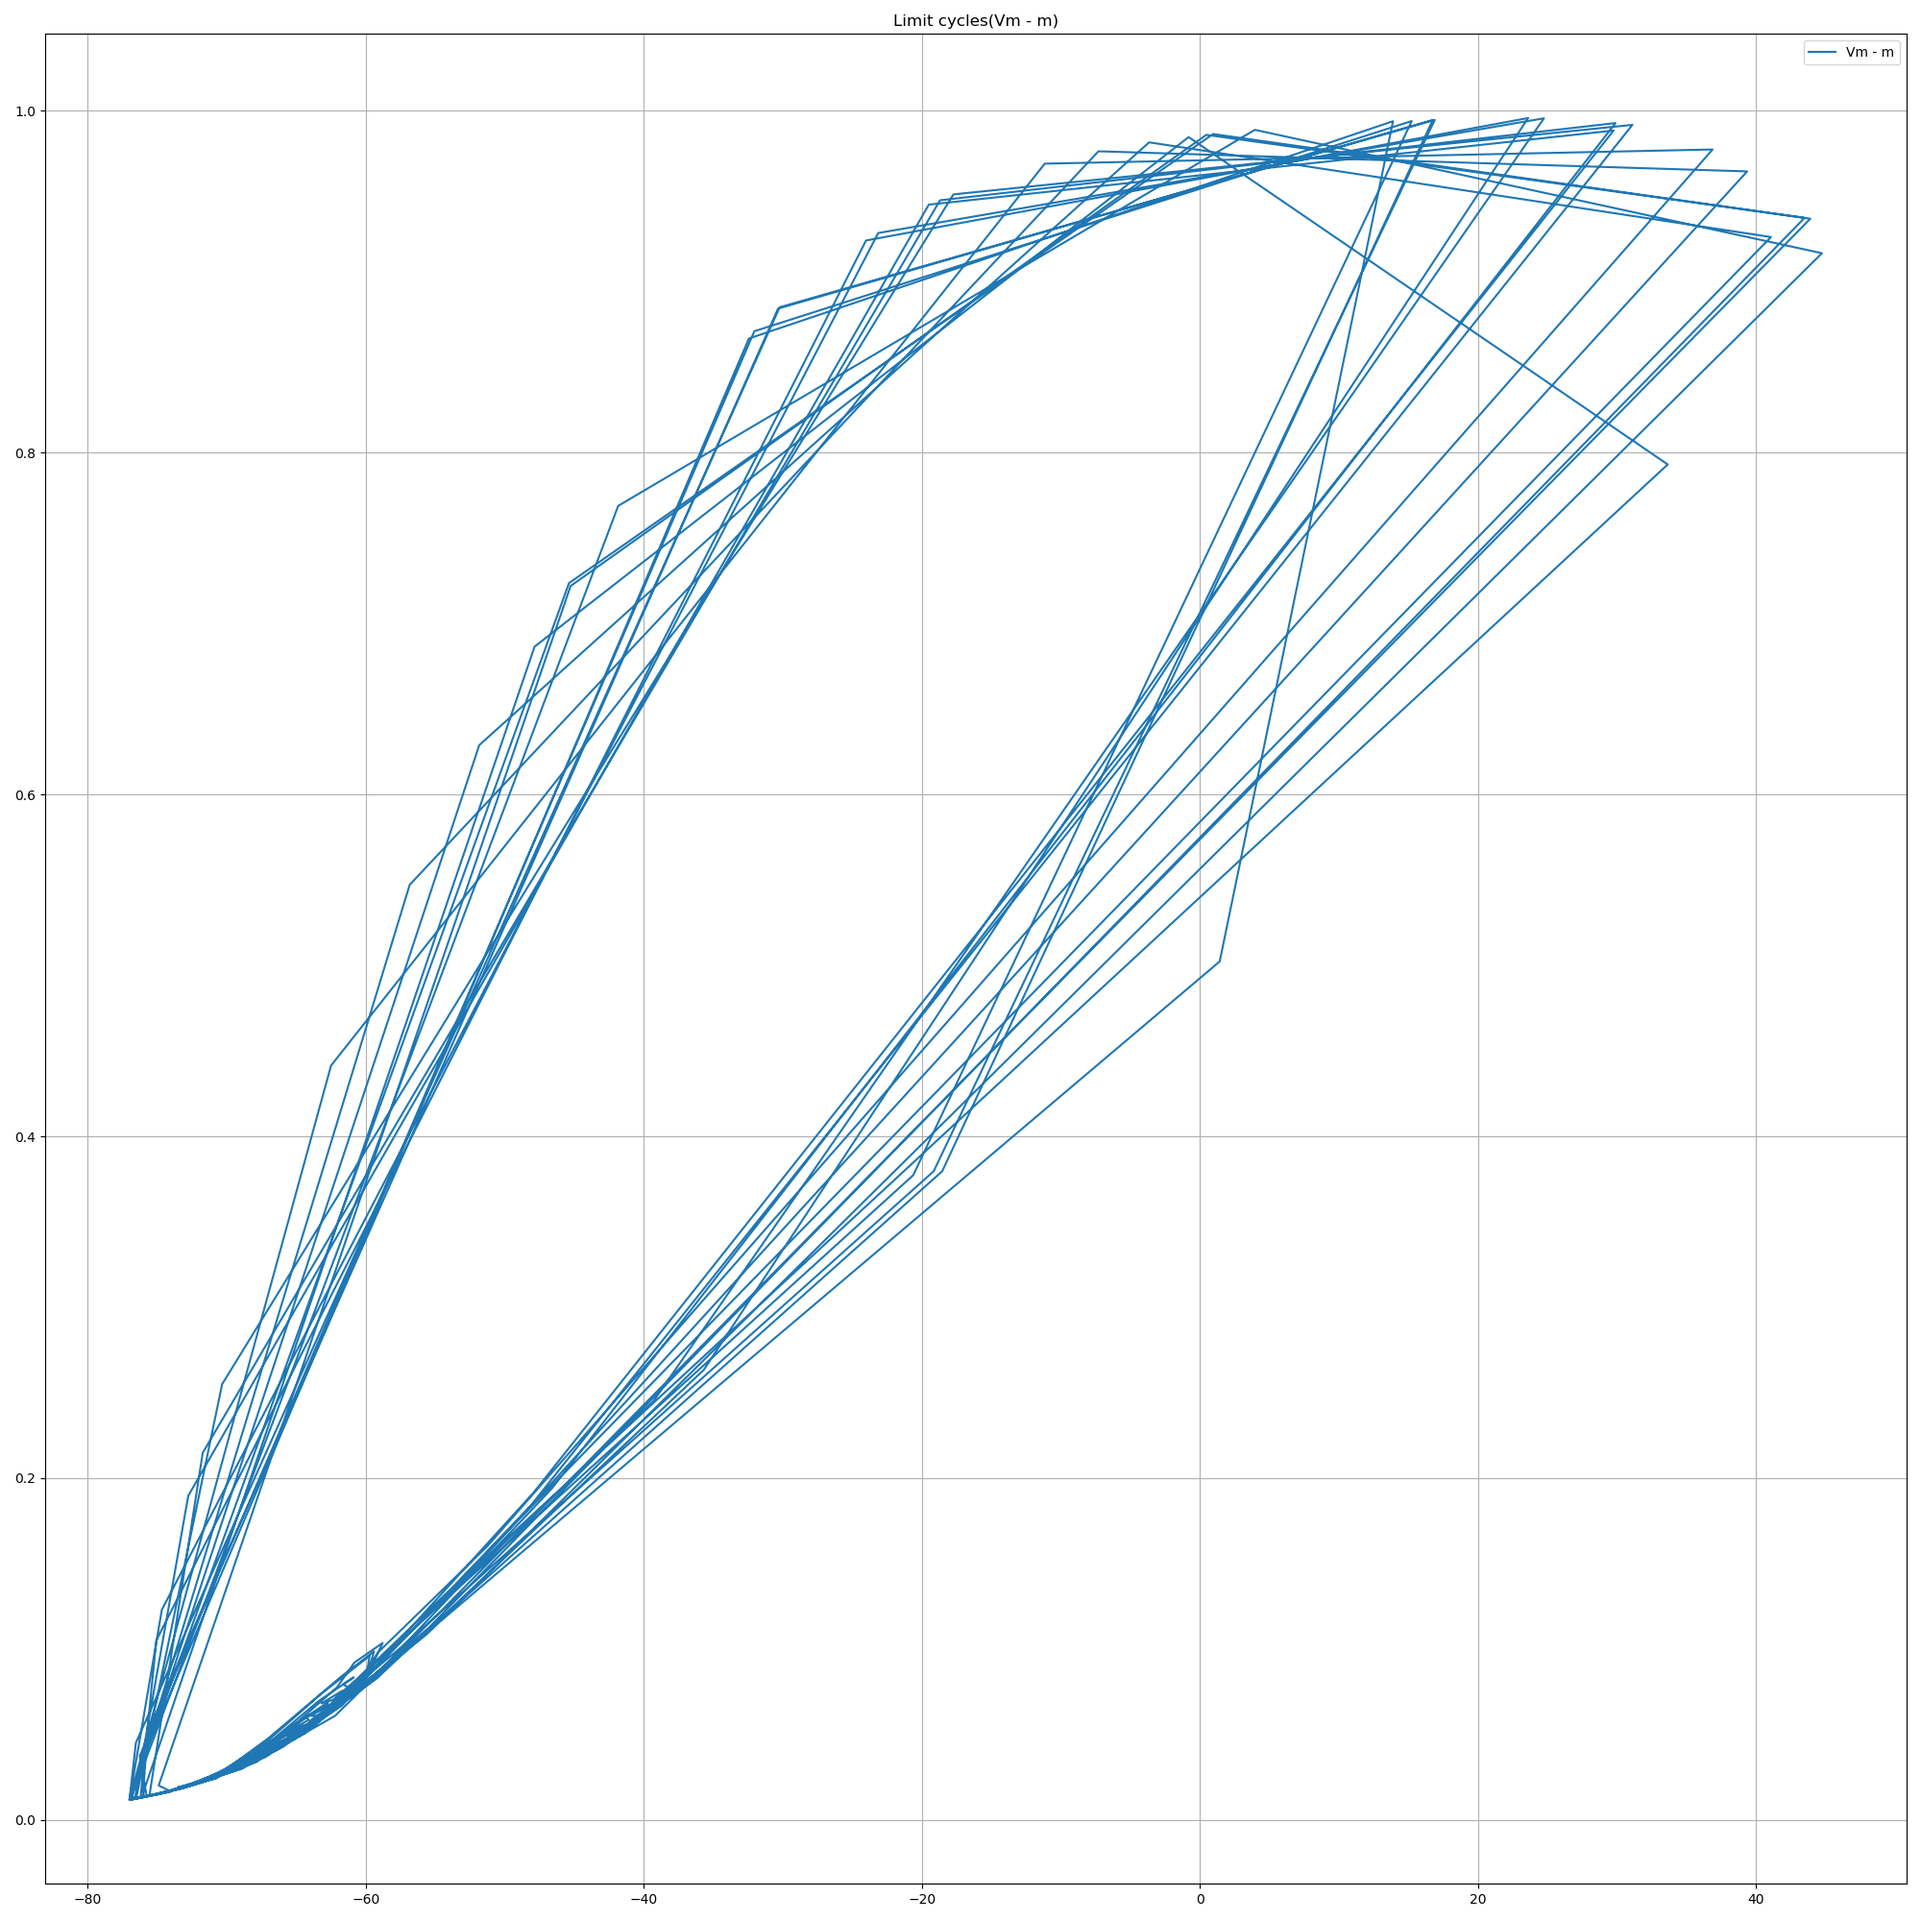
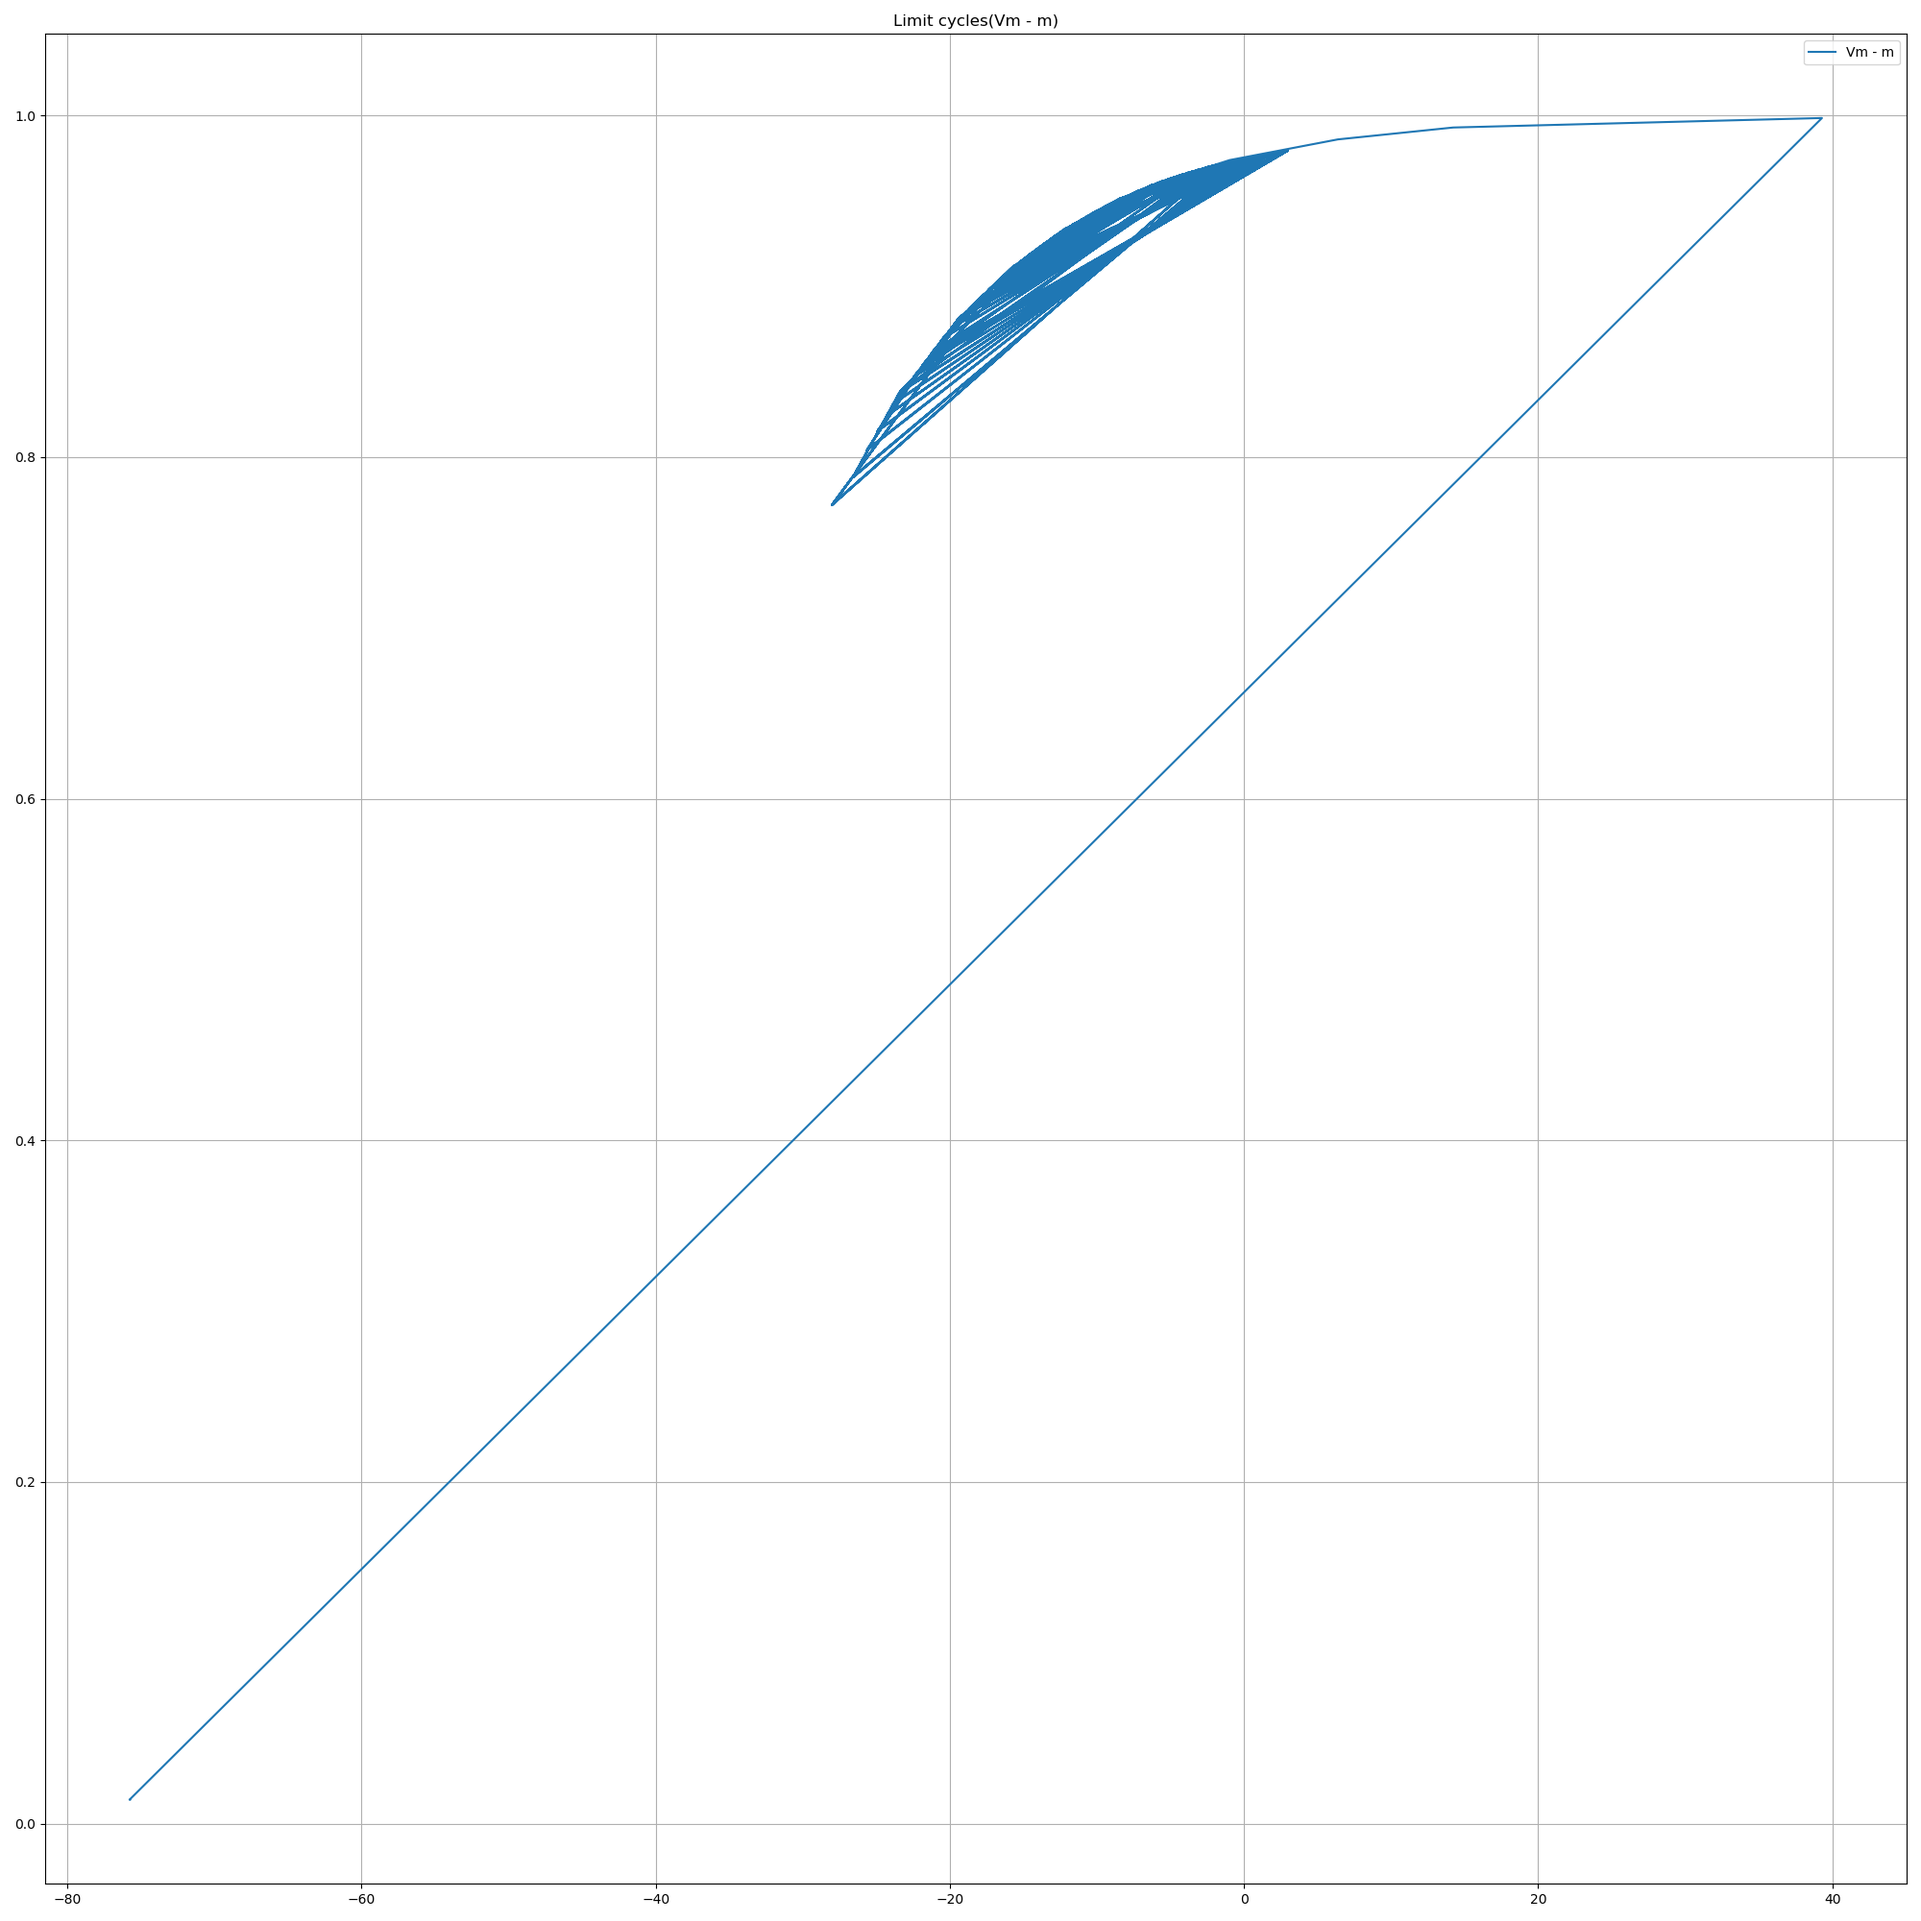
*fixed model
*added spike ratio

Changed region(s): [[0.062, 0.062, 0.93, 0.961], [0.868, 0.155, 0.899, 0.186]]

diff --git a/lab3.py b/lab3.py
@@ -3,41 +3,55 @@ import numpy as np
 
 from scipy.integrate import odeint
 
-from model import n_0, m_0, h_0, generate_computing_derivatives_function, I_A_func, I_B_func
+from model import n_0, m_0, h_0, generate_computing_derivatives_function
 from lab3_utils import calculate_L, Id
 
 # Set random seed (for reproducibility)
 np.random.seed(30)
 
 
-def plot_results(L_A_func, L_B_func, Vy, T, syn_params, plot_phase_space=False):
-    fig, ax = plt.subplots(figsize=(24, 14))
-    ax.plot(np.array(T)*100, [I_A_func(T[i], Vy[i, 0], L_A_func, syn_params['V_A'], syn_params['N_A']) for i in range(len(T))])
-    ax.set_xlabel('Time (ms)')
-    ax.set_ylabel('I synapse A')
-    plt.grid()
-    fig.show()
-
-    fig, ax = plt.subplots(figsize=(24, 14))
-    ax.plot(np.array(T)*100, [I_B_func(T[i], Vy[i, 0], L_B_func, syn_params['V_B'], syn_params['N_B']) for i in range(len(T))])
-    ax.set_xlabel('Time (ms)')
-    ax.set_ylabel('I synapse B')
-    plt.grid()
-    fig.show()
+def plot_results(Vy, T, plot_phase_space=False):
+    #fig, ax = plt.subplots(figsize=(24, 14))
+    #ax.plot(np.array(T), Vy[:, 4])
+    #ax.set_xlabel('Time (s)')
+    #ax.set_ylabel('I synapse A (A)')
+    #plt.grid()
+    #fig.show()
+    #
+    #fig, ax = plt.subplots(figsize=(24, 14))
+    #ax.plot(np.array(T), Vy[:, 5])
+    #ax.set_xlabel('Time (s)')
+    #ax.set_ylabel('I synapse B (A)')
+    #plt.grid()
+    #fig.show()
+    #
+    #fig, ax = plt.subplots(figsize=(24, 14))
+    #ax.plot(np.array(T), Vy[:, 6])
+    #ax.set_xlabel('Time (s)')
+    #ax.set_ylabel('I Na (A)')
+    #plt.grid()
+    #fig.show()
+    #
+    #fig, ax = plt.subplots(figsize=(24, 14))
+    #ax.plot(np.array(T), Vy[:, 7])
+    #ax.set_xlabel('Time (s)')
+    #ax.set_ylabel('I K (A)')
+    #plt.grid()
+    #fig.show()
 
     # Neuron potential
     fig, ax = plt.subplots(figsize=(24, 14))
-    ax.plot(np.array(T)*100, Vy[:, 0])
+    ax.plot(np.array(T) * 10, Vy[:, 0])
     ax.set_xlabel('Time (ms)')
-    ax.set_ylabel('Vm (mV)')
+    ax.set_ylabel('Vm (V)')
     ax.set_title('Neuron potential')
     plt.grid()
     fig.show()
-
+    #
     # n, m, h
     fig, ax = plt.subplots(figsize=(24, 14))
     for i, label in enumerate(['n', 'm', 'h']):
-        ax.plot(np.array(T)*100, Vy[:, i + 1], label=label)
+        ax.plot(np.array(T) * 10, Vy[:, i + 1], label=label)
     ax.set_xlabel('Time (ms)')
     ax.set_ylabel('Potassium & Sodium ion-channel rates')
     ax.set_title('Potassium & Sodium ion-channel rates in time')
@@ -56,41 +70,81 @@ def plot_results(L_A_func, L_B_func, Vy, T, syn_params, plot_phase_space=False):
             fig.show()
 
 
+def check_spikes_ratio(Vy, T):
+    def calc_spikes_ratio_by_window(Window_size):
+        spikes_ratio = []
+        for i in range(len(Vy) - Window_size - 1):
+            spikes = 0
+            for j in range(i, i + Window_size):
+                if Vy[j][0] < 0.0 and Vy[j + 1][0] > 0.0:
+                    spikes += 1
+            spikes_ratio.append(spikes)
+        return np.array(spikes_ratio)
+
+    spikes_in_500ms = calc_spikes_ratio_by_window(50)
+
+    # 1
+    print("No zero spikes for 500ms: {}".format(np.all(spikes_in_500ms > 0)))
+
+    # plot spikes ratio
+    pos_ = Vy[:, 0] > 0
+    HZ = np.array(np.split(np.array([False] + list((pos_[1:] == True) & (pos_[:-1] == False))), 60)).sum(axis=1)
+    dots = np.where(HZ < 10)[0]
+    dots10 = np.where(HZ >= 10)[0]
+    dots15 = np.where(HZ >= 15)[0]
+
+    plt.figure(constrained_layout=True, figsize=(24, 14))
+    plt.plot(range(1, 61), HZ, label='Spike ratio')
+    plt.axhline(y=10, color='y', linestyle='--', label='10Hz')
+    plt.axhline(y=15, color='r', linestyle='--', label='15Hz')
+    plt.scatter(dots + 1, HZ[dots], s=100, marker='o', c='g')
+    plt.scatter(dots10 + 1, HZ[dots10], s=100, marker='o', c='y')
+    plt.scatter(dots15 + 1, HZ[dots15], s=100, marker='o', c='r')
+    plt.xlabel('Time (s)')
+    plt.ylabel('Frequency (Hz)')
+    plt.title('Spike ratio')
+    plt.legend()
+    plt.show()
+
+
+
+    
+
 def run_simulation(Id, plot_phase_space=False):
-    T = [int(t) for t in np.arange(0, 600, 1)]
+    T = [int(t) for t in np.arange(0, 6000, 1)]
     print(T)
-    # A
+
+
     L_A_params = {
         'L0': 0.0,
         'distr_func': np.random.poisson,
-        'distr_params': {'lam': 10},
-        'distr_threshold': 10,
-        'L_in': 0.01,
-        'L_out': 0.005
+        'distr_params': {'lam': 23},
+        'L_in': 1000,
+        'L_out': 100,
+        'V_max': 1000
     }
-    L_A_func = calculate_L(T, L_A_params)
 
-
-    # B
     L_B_params = {
         'L0': 0.0,
         'distr_func': np.random.uniform,
-        'distr_params': {'low': 0, 'high': 10},
-        'distr_threshold': 7,
-        'L_in': 0.01,
-        'L_out': 0.005
+        'distr_params': {'low': 1, 'high': 7},
+        'L_in': 1000,
+        'L_out': 100,
+        'V_max': 1000
     }
+
+    L_A_func = calculate_L(T, L_A_params)
     L_B_func = calculate_L(T, L_B_params)
 
     syn_params = {
-        'V_A': 500,
-        'N_A': 100000,
-        'V_B': 500,
-        'N_B': 100000,
+        'V_A': 900,
+        'N_A': 6.877 * 1e9,
+        'V_B': 1000,
+        'N_B': 6.58 * 1e9,
     }
 
     Vm0 = -75.74
-    Y = np.array([Vm0, n_0(Vm0), m_0(Vm0), h_0(Vm0)])
+    Y = np.array([Vm0, n_0(Vm0), m_0(Vm0), h_0(Vm0), 0.0, 0.0, 0.0, 0.0])
 
     compute_derivatives = generate_computing_derivatives_function(Id, L_A_func, L_B_func, syn_params)
 
@@ -98,7 +152,8 @@ def run_simulation(Id, plot_phase_space=False):
     # Vy = (Vm[t0:tmax], n[t0:tmax], m[t0:tmax], h[t0:tmax])
     Vy = odeint(compute_derivatives, Y, T)
 
-    plot_results(L_A_func, L_B_func, Vy, T, syn_params, plot_phase_space)
+    plot_results(Vy, T, plot_phase_space)
+    check_spikes_ratio(Vy, T)
 
 
 if __name__ == '__main__':

diff --git a/model.py b/model.py
@@ -1,24 +1,23 @@
 import numpy as np
 
 
-gK = 36.0  # (mS/cm^2)
-gNa = 120.0  # (mS/cm^2)
+gK = 36.0
+gNa = 120.0
 
-Cm = 1.0  # (uF/cm^2)
+Cm = 1.0
 
-VK = -77.0  # EK(mV)
-VNa = 50.0  # EK(mV)
-Vl = -54.387  # EK(mV)
+VK = -77.0
+VNa = 50.0
 
 
-KdA = 128  # nM
-KdB = 500  # nM
+KdA = 1.0 / 128 * 1e9  # M
+KdB = 1.0 / 500 * 1e9  # M
 
-VeqA = -65  # mV
-VeqB = 55  # mV
+VeqA = -65.0
+VeqB = 55.0
 
-gammaA = 8  # pS
-gammaB = 10  # pS
+gammaA = 8 * 1e-3
+gammaB = 10 * 1e-3
 
 
 def alpha_n(Vm):
@@ -57,35 +56,35 @@ def h_0(Vm=0.0):
     return alpha_h(Vm) / (alpha_h(Vm) + beta_h(Vm))
 
 
-def I_A_func(t0, Vm, L_A_func, V_A, N_A):
+def I_A_func(t0, L_A_func, V_A, N_A):
     P_A = 1.0 / (1.0 + KdA * V_A / (L_A_func(t0) + 1e-9))
-    I_A = N_A * P_A * (Vm - VeqA) * gammaA
+    I_A = N_A * P_A * gammaA
     return I_A
 
 
-def I_B_func(t0, Vm, L_B_func, V_B, N_B):
+def I_B_func(t0, L_B_func, V_B, N_B):
     P_B = 1.0 / (1.0 + KdB * V_B / (L_B_func(t0) + 1e-9))
-    I_B = N_B * P_B * (Vm - VeqB) * gammaB
+    I_B = N_B * P_B * gammaB
     return I_B
 
 
 def generate_computing_derivatives_function(input_stimulus_func, L_A_func, L_B_func, syn_params):
     def compute_derivatives(y, t0):
-        dy = np.zeros((4,))
+        dy = np.zeros((8,))
 
         Vm = y[0]
         n = y[1]
         m = y[2]
         h = y[3]
 
+        I_K = gK * np.power(n, 4.0) * (Vm - VK)
+        I_Na = gNa * np.power(m, 3.0) * h * (Vm - VNa)
+
+        I_A = I_A_func(t0, L_A_func, syn_params['V_A'],  syn_params['N_A']) * (Vm - VeqA)
+        I_B = I_B_func(t0, L_B_func, syn_params['V_B'], syn_params['N_B']) * (Vm - VeqB)
+
         # dVm/dt
-        GK = (gK / Cm) * np.power(n, 4.0)
-        GNa = (gNa / Cm) * np.power(m, 3.0) * h
-
-        I_A = I_A_func(t0, Vm, L_A_func, syn_params['V_A'],  syn_params['N_A'])
-        I_B = I_B_func(t0, Vm, L_B_func, syn_params['V_B'], syn_params['N_B'])
-
-        dy[0] = (input_stimulus_func(t0) / Cm) - (GK * (Vm - VK)) - (GNa * (Vm - VNa)) - I_A / Cm - I_B / Cm
+        dy[0] = -(I_K + I_Na + I_A + I_B) / Cm
 
         # dn/dt
         dy[1] = (alpha_n(Vm) * (1.0 - n)) - (beta_n(Vm) * n)
@@ -95,6 +94,18 @@ def generate_computing_derivatives_function(input_stimulus_func, L_A_func, L_B_f
 
         # dh/dt
         dy[3] = (alpha_h(Vm) * (1.0 - h)) - (beta_h(Vm) * h)
+
+        # dI_A/dt
+        dy[4] = I_A
+
+        # dI_B/dt
+        dy[5] = I_B
+
+        # dI_Na/dt
+        dy[6] = I_Na
+
+        # dI_K/dt
+        dy[7] = I_K
 
         return dy
     return compute_derivatives

diff --git a/lab3_utils.py b/lab3_utils.py
@@ -7,20 +7,29 @@ def Id(t):
 
 
 def calculate_L(T, L_params):
+    # T in s
     n_tics = len(T)
     res = np.zeros(n_tics)
 
     res[0] = L_params['L0']
+    delay = L_params['distr_func'](**L_params['distr_params'])
     for i in range(2, n_tics):
-        is_spiking = L_params['distr_func'](**L_params['distr_params']) > L_params['distr_threshold']
+        is_spiking = False
+        if delay <= 0:
+            is_spiking = True
+            delay = L_params['distr_func'](**L_params['distr_params'])
+
         res[i] = res[i - 1] + int(is_spiking) * L_params['L_in'] - L_params['L_out']
-        res[i] = max(0.0, res[i])
-    print(res)
+        res[i] = np.clip(res[i], 0.0, L_params['V_max'])
+        delay -= 1
+    #print(res)
     res = {T[i]: res[i] for i in range(n_tics)}
+    print(res.values())
 
     def L_func(t):
-        if t > 600:
+        # input in s
+        if t >= 6000:
             return 0.0
         return res[int(t)]
-
+    
     return L_func
